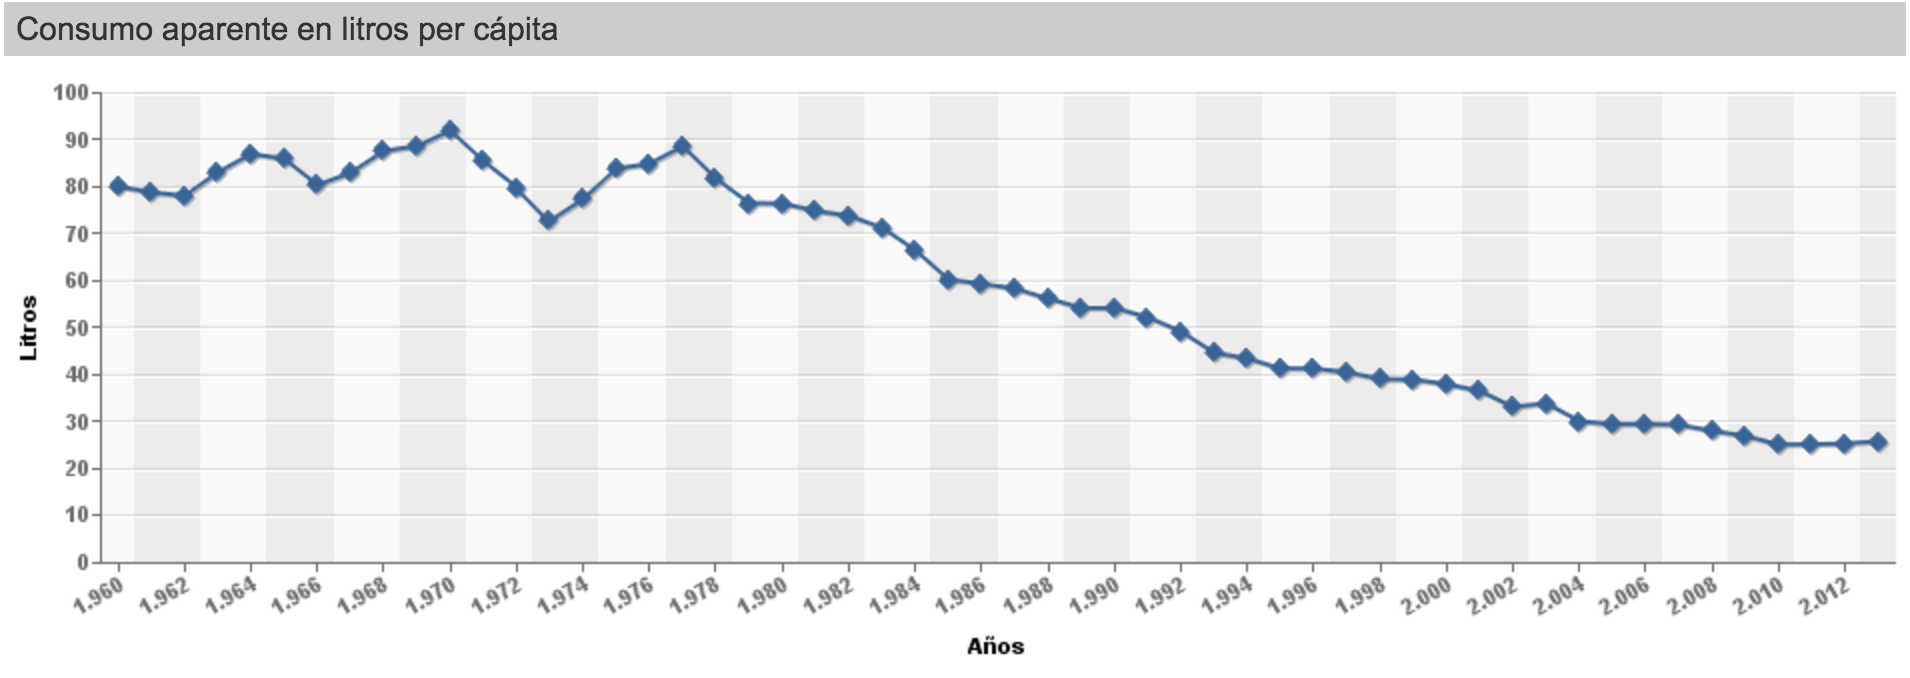
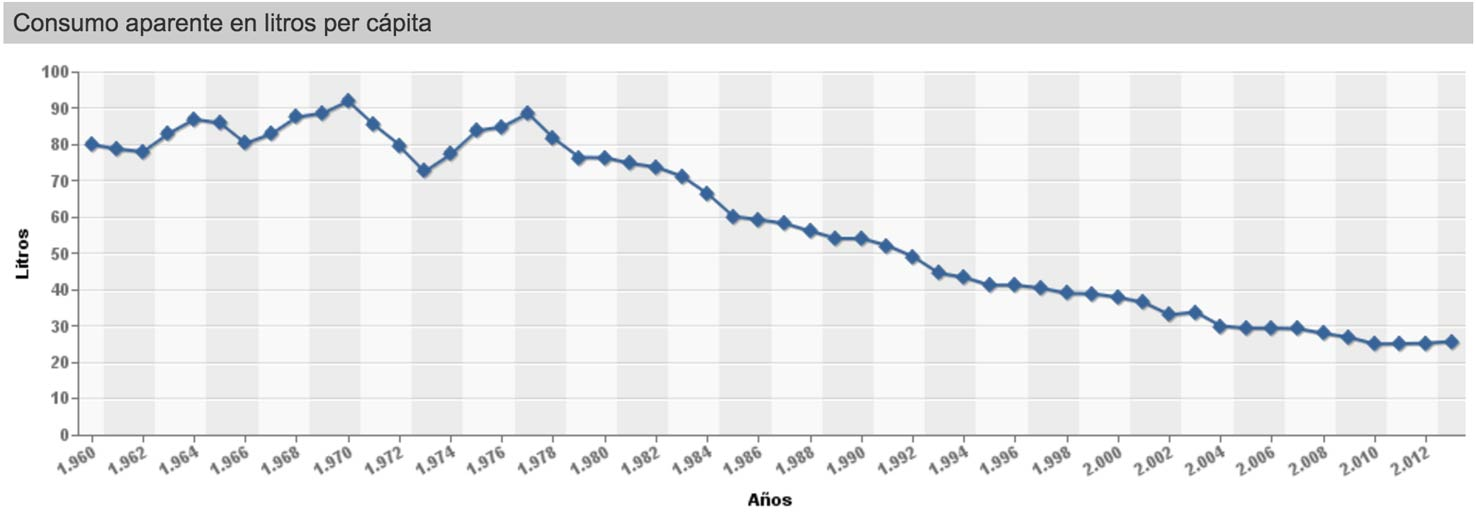
made the images smaller in size

diff --git a/message.html b/message.html
@@ -1,10 +1,10 @@
----   
+---    
 layout:  default
 ---
 <div id="wrapper" class="mainpage">
 <!-- HEADER --> 
     <header id="header" class="alt">
-        <a href="{{site.baseurl}}index" class="logo"><strong></strong><span>Altman <span id="amp">&amp;</span> Berg</span></a>
+        <a href="{{site.baseurl}}" class="logo"><strong></strong><span>Altman <span id="amp">&amp;</span> Berg</span></a>
         <nav>
             <a href="http://frontmesh.com" class="logo" id="lang">English</a>
             <a href="http://es.frontmesh.com" class="logo" id="lang">Español</a>
@@ -14,22 +14,24 @@ layout:  default
 <!-- MENU -->
     <nav id="menu">
         <ul class="links">
-            <li><a href="{{site.baseurl}}index">Home</a></li>
-            <li><a href="{{site.baseurl}}columnists">Columnists</a></li>
-            <li><a href="{{site.baseurl}}tags/index">Archive</a></li>
-            <li><a href="#footer">Contact</a></li>
-            <li><a href="http://frontmesh.com">English</a></li>
-            <li><a href="http://es.frontmesh.com">Español</a></li>
+            <li><a href="{{site.baseurl}}" class="button special">Home</a></li>
+            <li><a href="{{site.baseurl}}columnists" class="button special">Columnists</a></li>
+            <li><a href="{{site.baseurl}}tags" class="button special">Archive</a></li>
+            <li><a href="#footer" class="button special">Contact</a></li>
+            <li><a href="http://frontmesh.com" class="button special">English</a></li>
+            <li><a href="http://es.frontmesh.com" class="button special">Español</a></li>
         </ul>
+        <!--
         <ul class="actions vertical">
             <li><a href="#" class="button special fit">Get the Newsletter</a></li>
         </ul>
+        -->
     </nav>
 <!-- BANNER -->
     <section id="banner" class="ma" id="thanks">
         <div class="inner">
             <header class="major">
-                <h1><a href="{{site.baseurl}}index">Altman <span id="amp">&amp;</span> Berg</a></h1>
+                <h1><a href="{{site.baseurl}}">Altman <span id="amp">&amp;</span> Berg</a></h1>
             </header>
             <div class="content">
                 <p>{{site.tagline}}</p>
@@ -40,15 +42,14 @@ layout:  default
     <section id="two" class="rationality">
         <div class="inner">
             <header class="major">
-                <h2>Thanks for your message, I'll get back to you asap, Gaspar</h2>
+                <h2>Thanks for your message.<br> I'll get back to you asap.<br> Gaspar</h2>
             </header>
             <ul>
                 <br>
                 <li><input type="button" value="Go back to the last page" onclick="history.back(-1)" /></li>
                 <br>
                 <li><a href="{{site.baseurl}}index" class="button next">Home page</a></li>
-
             </ul>
         </div>
     </section>
-    </div>
+</div>

diff --git a/tags/index.html b/tags/index.html
@@ -1,11 +1,11 @@
 ---    
-layout: default
+layout: default 
 title: Post Archives
 ---
 <div id="wrapper" class="mainpage">
 <!-- HEADER --> 
     <header id="header" class="alt">
-        <a href="{{site.baseurl}}index" class="logo"><strong></strong><span>Altman <span id="amp">&amp;</span> Berg</span></a>
+        <a href="{{site.baseurl}}" class="logo"><strong></strong><span>Altman <span id="amp">&amp;</span> Berg</span></a>
         <nav>
             <a href="http://frontmesh.com" class="logo" id="lang">English</a>
             <a href="http://es.frontmesh.com" class="logo" id="lang">Español</a>
@@ -14,10 +14,10 @@ title: Post Archives
     </header>
 <!-- MENU -->
     <nav id="menu">
-        <ul class="links" class="actions vertical">
-            <li><a href="{{site.baseurl}}index" class="button special">Home</a></li>
+        <ul class="links">
+            <li><a href="{{site.baseurl}}" class="button special">Home</a></li>
             <li><a href="{{site.baseurl}}columnists" class="button special">Columnists</a></li>
-            <li><a href="{{site.baseurl}}tags/index" class="button special">Archive</a></li>
+            <li><a href="{{site.baseurl}}tags" class="button special">Archive</a></li>
             <li><a href="#footer" class="button special">Contact</a></li>
             <li><a href="http://frontmesh.com" class="button special">English</a></li>
             <li><a href="http://es.frontmesh.com" class="button special">Español</a></li>
@@ -32,7 +32,7 @@ title: Post Archives
     <section id="banner" class="major">
         <div class="inner">
             <header class="major">
-                <h1><a href="{{site.baseurl}}index">Altman <span id="amp">&amp;</span> Berg</a></h1>
+                <h1><a href="{{site.baseurl}}">Altman <span id="amp">&amp;</span> Berg</a></h1>
             </header>
             <div class="content">
                 <p>{{site.tagline}}</p>
@@ -45,7 +45,7 @@ title: Post Archives
         <article role="article">
             <header>
                 <h2 id="top">{{page.title}}:</h2>
-                 <ul class="tag-cloud">
+                <ul class="tag-cloud">
                      {% capture site_tags %}{% for tag in site.tags %}{{tag | first}}{% unless forloop.last %},{% endunless %}{% endfor %}{% endcapture %}
                      {% assign sortedTags=site_tags | split:',' | sort %}
                      {% for tag in sortedTags %}
@@ -65,7 +65,7 @@ title: Post Archives
                 {% endfor %}
                 <li class="return"><a href="#top" title="return to top">return to top</a></li>
             </ul>
-         {% endfor %}
+            {% endfor %}
         </article>
     </section>
 </div>

diff --git a/_layouts/post.html b/_layouts/post.html
@@ -5,7 +5,7 @@ page-type: post
 <div id="wrapper" class="articlepage">
 <!-- HEADER -->
     <header id="header">
-        <a href="{{site.baseurl}}index" class="logo"><span>Altman <span id="amp">&amp;</span> Berg</span></a>
+        <a href="{{site.baseurl}}" class="logo"><span>Altman <span id="amp">&amp;</span> Berg</span></a>
         <nav>
             <a href="http://frontmesh.com" class="logo" id="lang">English</a>
             <a href="http://es.frontmesh.com" class="logo" id="lang">Español</a>
@@ -14,10 +14,10 @@ page-type: post
     </header>
 <!-- MENU -->
     <nav id="menu">
-        <ul class="links" class="actions vertical">
+        <ul class="links">
             <li><a href="{{site.baseurl}}" class="button special">Home</a></li>
             <li><a href="{{site.baseurl}}columnists" class="button special">Columnists</a></li>
-            <li><a href="{{site.baseurl}}tags/index" class="button special">Archive</a></li>
+            <li><a href="{{site.baseurl}}tags" class="button special">Archive</a></li>
             <li><a href="#footer" class="button special">Contact</a></li>
             <li><a href="http://frontmesh.com" class="button special">English</a></li>
             <li><a href="http://es.frontmesh.com" class="button special">Español</a></li>
@@ -37,11 +37,11 @@ page-type: post
                         <h1>{{page.title}}</h1>
                         <time itemprop="dateCreated" datetime="{{page.date}}">
                             {{ page.date | date: "%B %-d, %Y" }}</time>
-                        <p> {{page.author}}</p>
+                        <p>{{page.author}}</p>
                     </header>
                 </div>
                 {% if page.img %}
-                    <span class="image" >
+                    <span class="image">
                         <img src="{{page.img}}" alt="" />
                     </span>
                 {% endif %}

diff --git a/index.html b/index.html
@@ -4,7 +4,7 @@ layout:  default
 <div id="wrapper" class="mainpage">
     <!-- Header --> 
         <header id="header" class="alt">
-            <a href="{{site.baseurl}}index" class="logo"><strong></strong><span>Altman <span id="amp">&amp;</span> Berg</span></a>
+            <a href="{{site.baseurl}}" class="logo"><strong></strong><span>Altman <span id="amp">&amp;</span> Berg</span></a>
             <nav>
                 <a href="http://frontmesh.com" class="logo" id="lang">English</a>
                 <a href="http://es.frontmesh.com" class="logo" id="lang">Español</a>
@@ -14,9 +14,9 @@ layout:  default
 <!-- MENU -->
     <nav id="menu">
         <ul class="links">
-            <li><a href="{{site.baseurl}}index" class="button special">Home</a></li>
+            <li><a href="{{site.baseurl}}" class="button special">Home</a></li>
             <li><a href="{{site.baseurl}}columnists" class="button special">Columnists</a></li>
-            <li><a href="{{site.baseurl}}tags/index" class="button special">Archive</a></li>
+            <li><a href="{{site.baseurl}}tags" class="button special">Archive</a></li>
             <li><a href="#footer" class="button special fit">Contact</a></li>
             <li><a href="http://frontmesh.com" class="button special">English</a></li>
             <li><a href="http://es.frontmesh.com" class="button special">Español</a></li>
@@ -31,7 +31,7 @@ layout:  default
     <section id="banner" class="major">
         <div class="inner">
             <header class="major">
-                <h1><a href="{{site.baseurl}}index">Altman <span id="amp">&amp;</span> Berg</a></h1>
+                <h1><a href="{{site.baseurl}}">Altman <span id="amp">&amp;</span> Berg</a></h1>
             </header>
             <div class="content">
                 <p>{{site.tagline}}</p>

diff --git a/columnists.html b/columnists.html
@@ -1,4 +1,4 @@
----  
+---   
 layout:  default  
 ---
 <div id="wrapper" class="mainpage">
@@ -13,8 +13,8 @@ layout:  default
     </header>
 <!-- MENU -->
     <nav id="menu">
-        <ul class="links" class="actions vertical">
-            <li><a href="{{site.baseurl}}index" class="button special">Home</a></li>
+        <ul class="links">
+            <li><a href="{{site.baseurl}}" class="button special">Home</a></li>
             <li><a href="{{site.baseurl}}columnists" class="button special">Columnists</a></li>
             <li><a href="{{site.baseurl}}tags/index" class="button special">Archive</a></li>
             <li><a href="#footer" class="button special fit">Contact</a></li>
